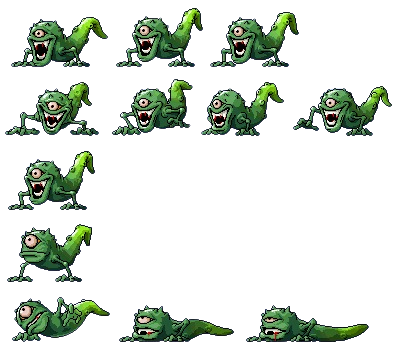
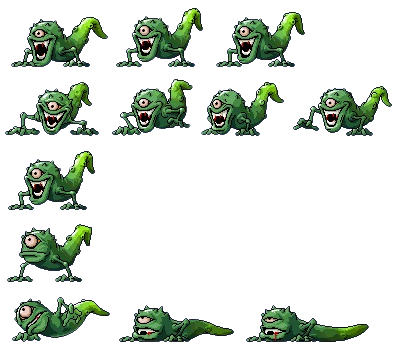
fixed lizared

Changed region(s): [[0.5062, 0.0286, 0.7742, 0.2]]

diff --git a/oop2_proj/src/FileManager.cpp b/oop2_proj/src/FileManager.cpp
@@ -373,7 +373,7 @@ void FileManager::createForestMonstersAnimeData()
 	//	Operation::Dead), 0.15f, true);
 
 	setCurrentData(m_monsterData[LEVEL1][MONSTER3], Stay, movableAnimationSet
-	({ 104, 65 }, { 9, 6 },1, 3, Stay), 0.02f, false);
+	({ 102, 65 }, { 9, 6 },3, 3, Stay), 0.02f, false);
 
 	/*
 	setCurrentData(m_monsterData[LEVEL1][MONSTER3], Walk, movableAnimationSet
